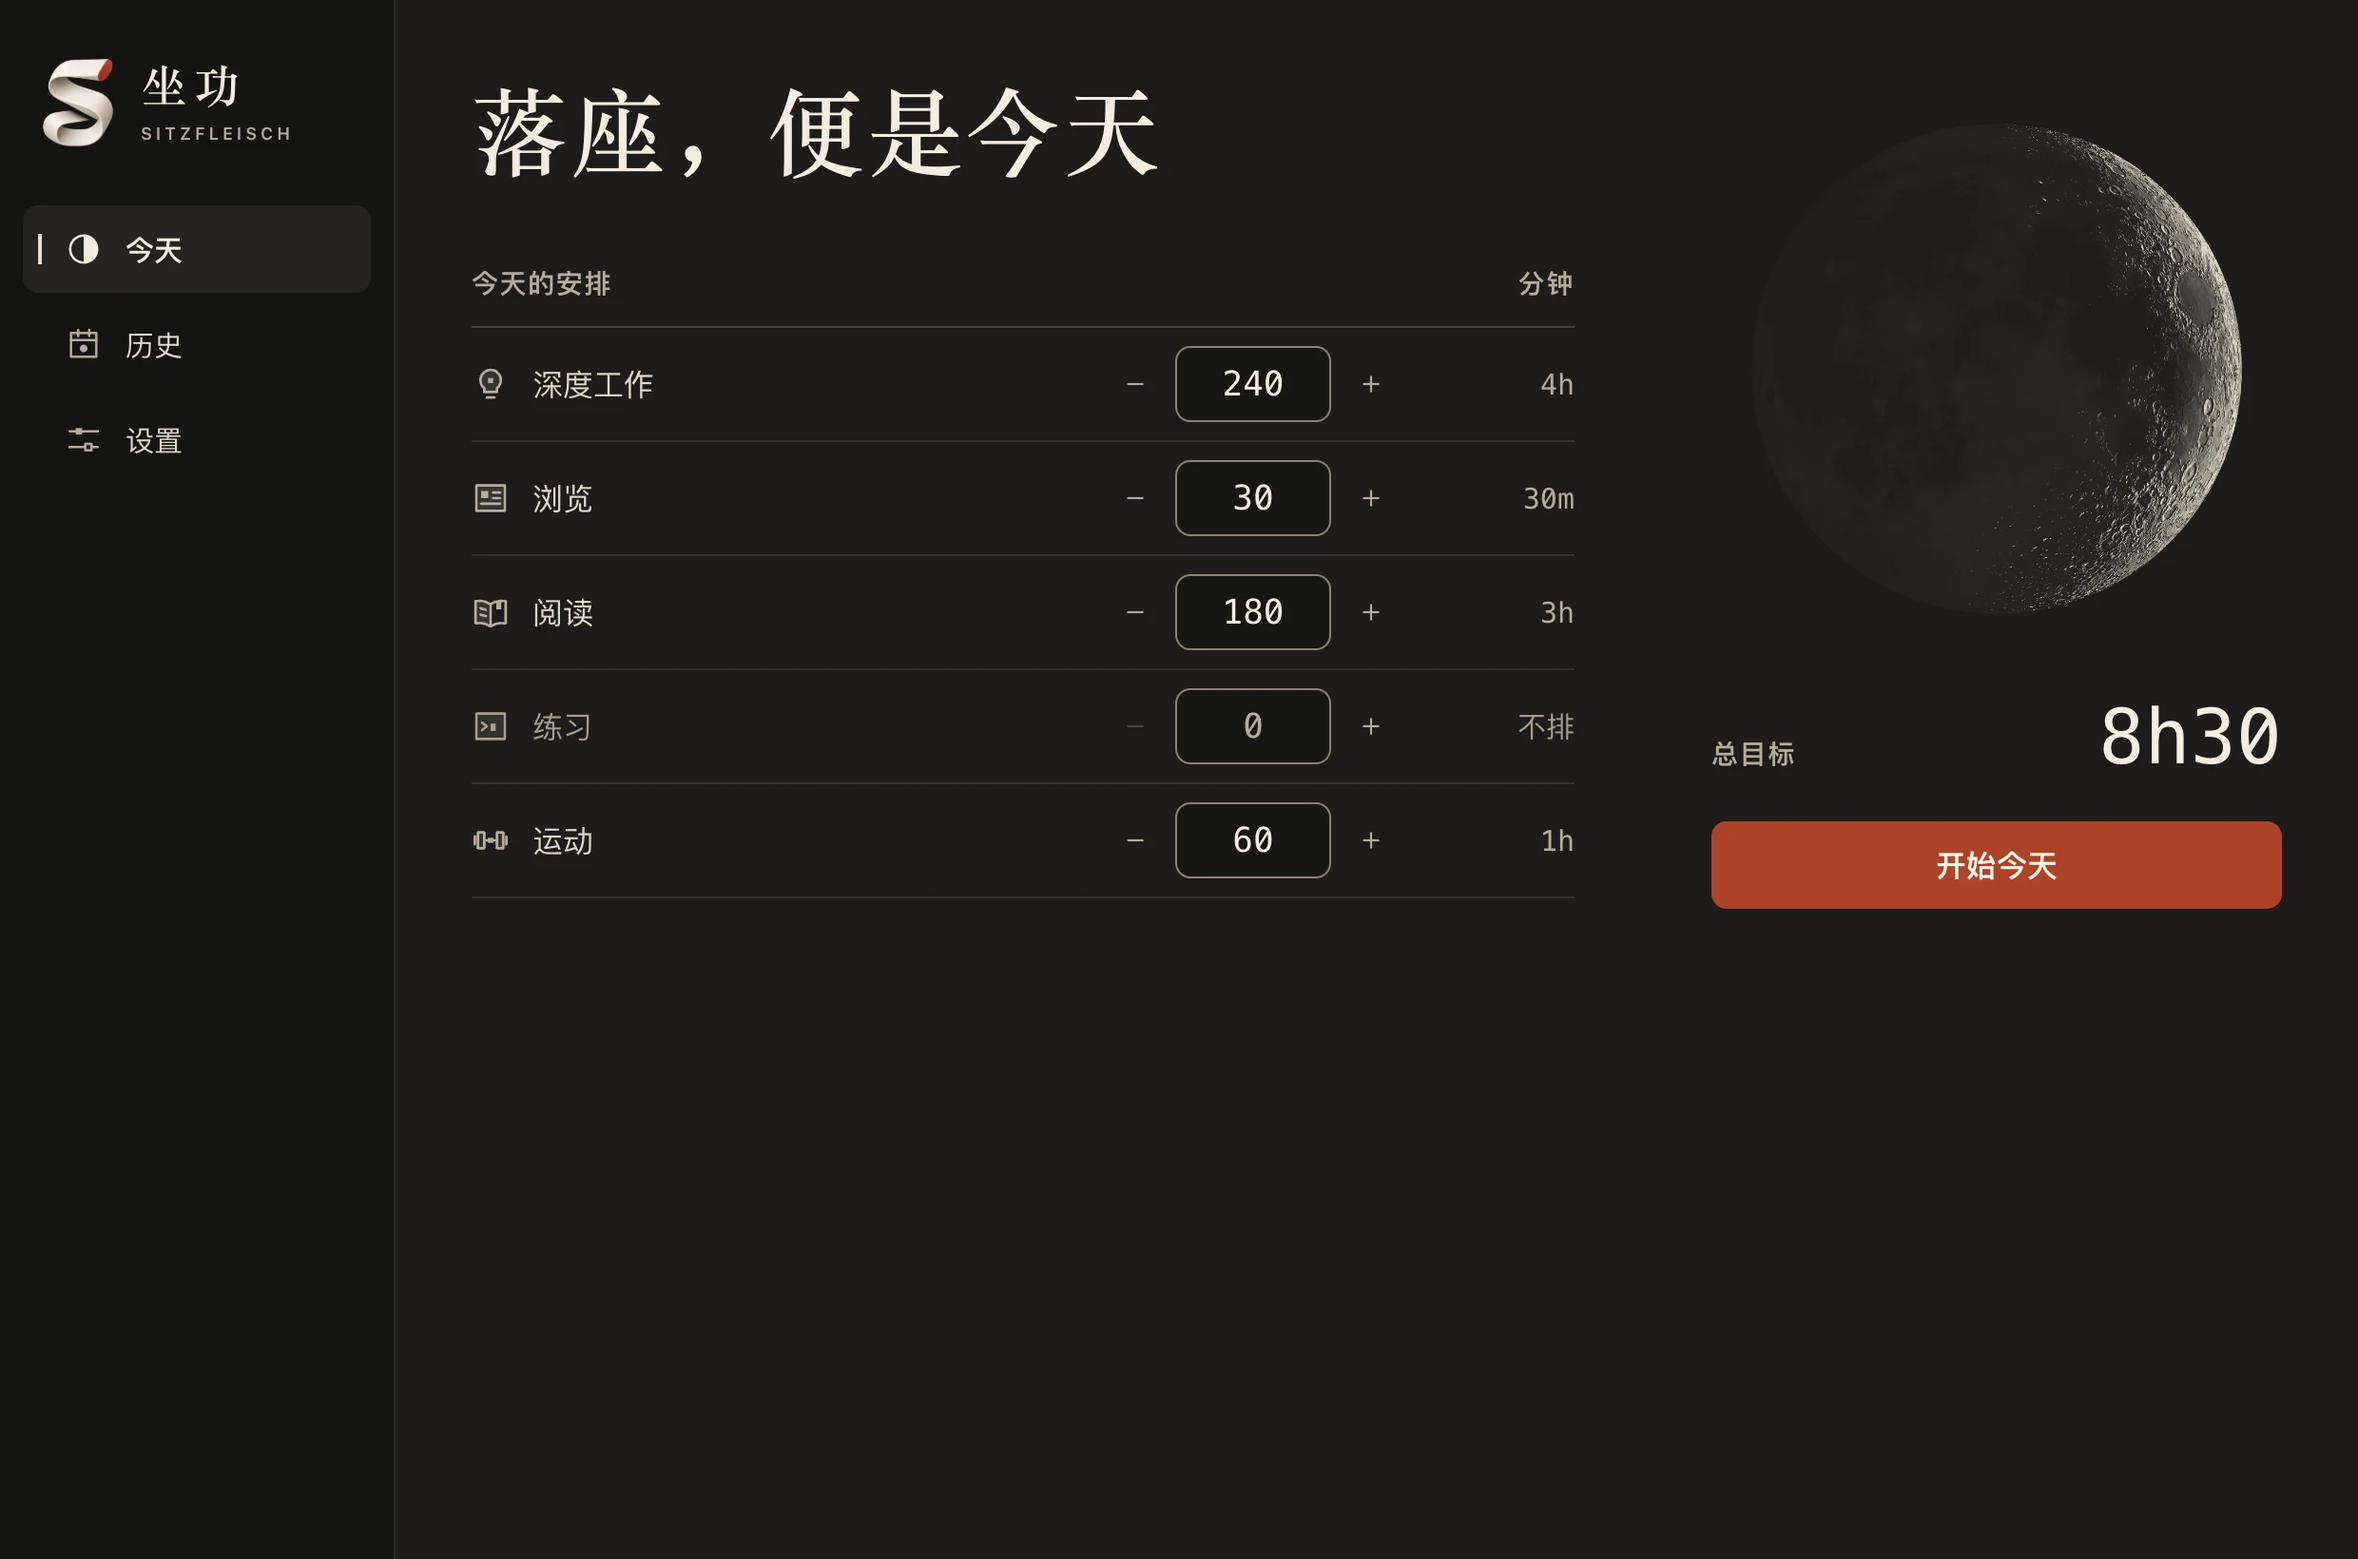
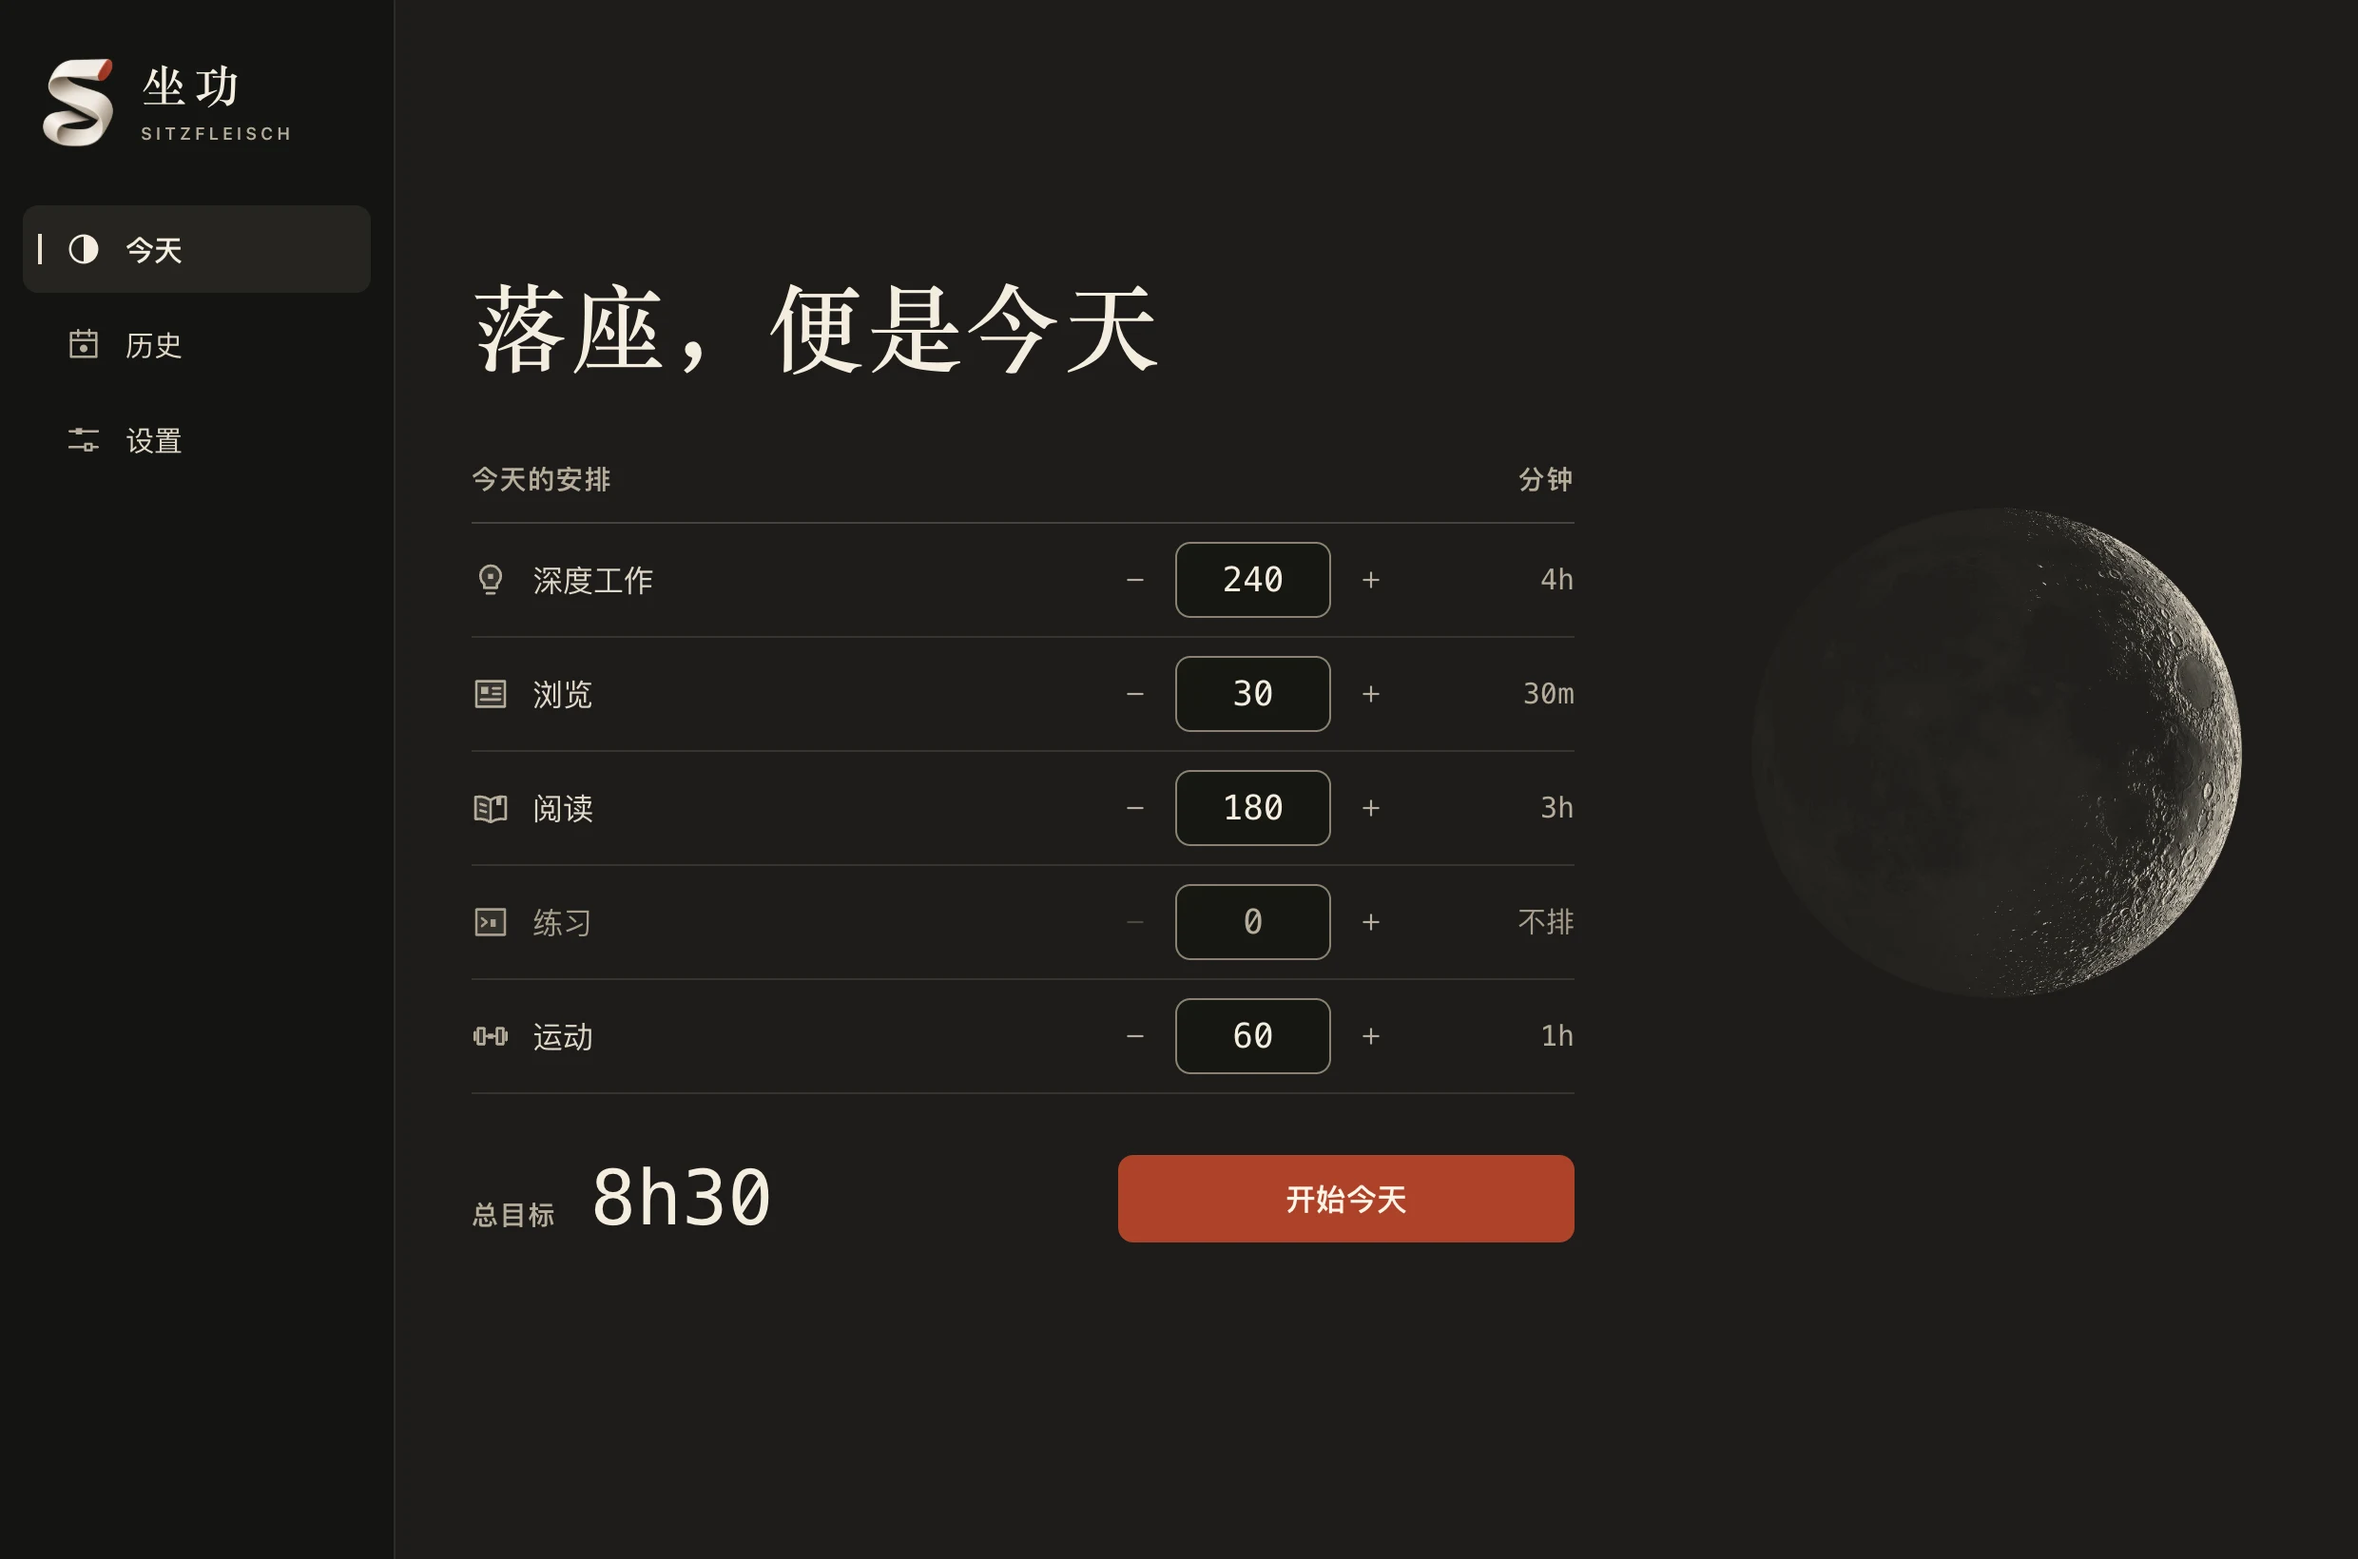
fix: 开始页改成居中的封面排版，不再上挤下空
- 整组内容限宽并在窗口里上下左右居中，窗口再高再宽也不会只占左上角
- 左栏从上到下：大标题、今天的安排、总目标与「开始今天」；右栏只放一弯新月，和左栏上下居中
- 又宽又高的窗口里新月放大到 400px、计划行放松；窄窗时新月缩小挨着大标题
- 更新 README 的开始页截图

diff --git a/src/styles.css b/src/styles.css
@@ -447,7 +447,6 @@ textarea.field { resize: none; height: 96px; font-size: 15px; line-height: 1.5; 
 /* 开始页与空历史上的一弯新月：四周就是页面底色，不加框。 */
 .moon-art { margin: 0; flex: none; }
 .moon-art .moon { width: 100%; height: auto; aspect-ratio: 1; }
-.start-art { width: 100%; max-width: 300px; align-self: center; }
 
 /* ---------- 今日配额：每个项目一行，一炷横放的香 ---------- */
 
@@ -546,10 +545,28 @@ textarea.field { resize: none; height: 96px; font-size: 15px; line-height: 1.5; 
 .t-masthead { font-family: var(--font-display); font-size: 50px; font-weight: 700; letter-spacing: 2px; line-height: 1.25; color: var(--ink-high); }
 .masthead .sub { font-size: 16px; line-height: 1.7; color: var(--ink-muted); }
 
-.start-board { display: grid; grid-template-columns: minmax(0, 1fr) 300px; gap: 72px; align-items: start; }
-.start-main { display: flex; flex-direction: column; gap: 40px; min-width: 0; }
-.start-side { display: flex; flex-direction: column; gap: 22px; padding-top: 8px; }
-
+/* 开始页是一张封面：整组内容限宽、在窗口里上下左右居中，窗口再高再宽也不会挤在左上角、底下空一大片。
+   左栏从上到下就是一遍流程：大标题、今天的安排、总目标和「开始今天」；右栏只放这一弯新月，
+   和左栏上下居中。计划有几行都行，月亮的大小不用去凑计划表的高度。 */
+.start-board {
+  --start-art: 300px;
+  display: grid;
+  grid-template-columns: minmax(0, 1fr) var(--start-art);
+  grid-template-areas: "head art" "plan art" "foot art";
+  grid-template-rows: auto auto auto;
+  column-gap: 72px;
+  align-items: start;
+  width: 100%;
+  max-width: 1120px;
+  align-self: center;
+}
+.start-board > .masthead { grid-area: head; margin-bottom: 40px; }
+.start-board > .plan { grid-area: plan; min-width: 0; }
+.start-board > .start-art { grid-area: art; align-self: center; width: 100%; }
+/* 计划表收尾的一行：左边总目标，右边开始键，和计划的最后一行隔一段留白。 */
+.plan-foot { grid-area: foot; display: flex; align-items: center; justify-content: space-between; gap: 24px; padding-top: 32px; }
+.plan-foot .plan-total { justify-content: flex-start; gap: 18px; }
+.plan-foot .plan-go .btn { width: auto; min-width: 240px; }
 .plan-head { display: flex; align-items: baseline; justify-content: space-between; padding-bottom: 12px; border-bottom: 1px solid var(--hair-strong); }
 .plan-rows { display: flex; flex-direction: column; }
 .plan-row { display: grid; grid-template-columns: minmax(0, 1fr) auto 72px; align-items: center; gap: 18px; min-height: 60px; padding: 8px 0; border-bottom: 1px solid var(--hair); }
@@ -571,7 +588,6 @@ textarea.field { resize: none; height: 96px; font-size: 15px; line-height: 1.5; 
 
 .plan-total { display: flex; align-items: baseline; justify-content: space-between; gap: 16px; }
 .plan-total .num { font-family: var(--font-mono); font-variant-numeric: tabular-nums; font-size: 40px; font-weight: 500; line-height: 1.1; color: var(--ink-high); }
-.plan-go .btn { width: 100%; }
 
 /* ---------- 运行台 ---------- */
 
@@ -906,9 +922,16 @@ button.day-cell:active { background: rgba(231, 223, 208, 0.1); }
 
 @media (min-width: 1400px) {
   :root { --page-x: 48px; --page-y: 40px; }
-  .today-top, .start-board { grid-template-columns: minmax(0, 1fr) 340px; }
+  .today-top { grid-template-columns: minmax(0, 1fr) 340px; }
+  .start-board { --start-art: 340px; }
   .big-reading .val { font-size: 96px; }
   .t-masthead { font-size: 56px; }
+}
+
+/* 又宽又高的窗口：开始页的新月再放大一些，计划行也松一点，整张封面撑得住这么大的窗。 */
+@media (min-width: 1400px) and (min-height: 880px) {
+  .start-board { --start-art: 400px; }
+  .start-board .plan-row { min-height: 68px; }
 }
 
 @media (max-width: 1120px) {
@@ -916,7 +939,8 @@ button.day-cell:active { background: rgba(231, 223, 208, 0.1); }
   .shell { grid-template-columns: 188px minmax(0, 1fr); }
   .toast { left: calc(50% + 94px); }
   .page { gap: 40px; }
-  .today-top, .start-board { grid-template-columns: minmax(0, 1fr) 248px; column-gap: 40px; }
+  .today-top { grid-template-columns: minmax(0, 1fr) 248px; column-gap: 40px; }
+  .start-board { --start-art: 248px; column-gap: 40px; }
   .big-reading .val { font-size: 68px; letter-spacing: -2px; }
   .t-masthead { font-size: 40px; }
   .suggestion .text b { font-size: 22px; }
@@ -932,11 +956,9 @@ button.day-cell:active { background: rgba(231, 223, 208, 0.1); }
 
 /* 低于最小窗宽（系统缩放等）时改为上下堆叠，绝不重叠。 */
 @media (max-width: 960px) {
-  .start-board { grid-template-columns: minmax(0, 1fr); }
+  /* 窄到放不下两栏：新月缩小，挨着大标题放，计划和开始键在下面占满整宽。 */
+  .start-board { --start-art: 140px; grid-template-areas: "head art" "plan plan" "foot foot"; column-gap: 24px; }
   .today-top { grid-template-columns: 200px minmax(0, 1fr); grid-template-areas: "focus focus" "moon day" "quota quota"; gap: 36px 32px; }
-  .start-side { display: grid; grid-template-columns: 200px minmax(0, 1fr); align-items: center; gap: 12px 28px; }
-  /* 并排时新月占左边 200px 那一列、跨两行，右边是总目标。 */
-  .start-side .moon-art { grid-row: span 2; width: auto; }
   .focus { min-height: 0; }
   .archive-row { grid-template-columns: 16px 32px minmax(0, 1fr) 84px; }
   .wall-body { grid-template-columns: minmax(0, 1fr); }
@@ -959,7 +981,8 @@ button.day-cell:active { background: rgba(231, 223, 208, 0.1); }
   .nav-item { flex-direction: column; padding: 9px 3px; gap: 5px; font-size: 12.5px; }
   .page { gap: 32px; }
   .today-top { grid-template-columns: 140px minmax(0, 1fr); column-gap: 18px; }
-  .start-side { grid-template-columns: 140px minmax(0, 1fr); gap: 18px; }
+  .plan-foot { flex-direction: column; align-items: stretch; }
+  .plan-foot .plan-go .btn { width: 100%; }
   .big-reading .val { font-size: 56px; }
   .t-masthead { font-size: 32px; }
   .plan-row { grid-template-columns: minmax(0, 1fr) auto; }

diff --git a/src/views/today.ts b/src/views/today.ts
@@ -1,4 +1,4 @@
-// 「今天」：没开始时是开始页（左栏当天的安排，右栏一弯新月），开始后是运行台。
+// 「今天」：没开始时是开始页（左栏大标题、当天的安排、总目标和开始键，右栏一弯新月），开始后是运行台。
 // 运行台前两行是两列：这一格（倒计时、横卧的这炷香、操作）| 今天这一轮月，
 // 今日配额（每个项目一行横香）| 今天的总读数；下面是今天的走向和最近记录。不套板子，靠细线和留白分区。
 
@@ -72,20 +72,18 @@ function startBoard(): string {
     .join("");
   const total = profileTotalMinutes(plan);
   return `<section class="start-board" id="start">
-      <div class="start-main">
-        <header class="masthead">
-          <h1 class="t-masthead">落座，便是今天</h1>
-        </header>
-        <div class="plan">
-          <div class="plan-head"><span class="engraved">今天的安排</span><span class="engraved">分钟</span></div>
-          <div class="plan-rows">${rows}</div>
-        </div>
+      <header class="masthead">
+        <h1 class="t-masthead">落座，便是今天</h1>
+      </header>
+      <div class="plan">
+        <div class="plan-head"><span class="engraved">今天的安排</span><span class="engraved">分钟</span></div>
+        <div class="plan-rows">${rows}</div>
       </div>
-      <aside class="start-side">
-        ${crescentArt("start-art")}
+      <div class="plan-foot">
         <div class="plan-total"><span class="engraved">总目标</span><span class="num">${esc(meter(total * 60))}</span></div>
         <div class="plan-go">${btn("开始今天", { kind: "primary", cls: "lg", action: "start-day", data: { id: plan.id } })}</div>
-      </aside>
+      </div>
+      ${crescentArt("start-art")}
     </section>`;
 }
 

diff --git a/src/main.ts b/src/main.ts
@@ -51,7 +51,8 @@ function pageHtml(): string {
   // id 让 morphdom 按键匹配：提示条、对话框出现或消失时，页面本体绝不会被整棵重建。
   switch (ui.view) {
     case "today":
-      return `<div class="page" id="page-today">${todayPage()}</div>`;
+      // 开始页是一张封面，整组内容在窗口里居中（见 styles.css 的 .start-board）。
+      return `<div class="page${day() ? "" : " fill"}" id="page-today">${todayPage()}</div>`;
     case "history":
       return `<div class="page${historyEmpty() ? " fill" : ""}" id="page-history">${historyPage()}</div>`;
     case "settings":
